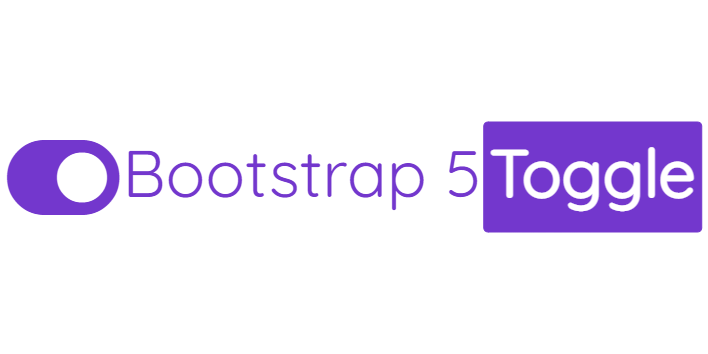
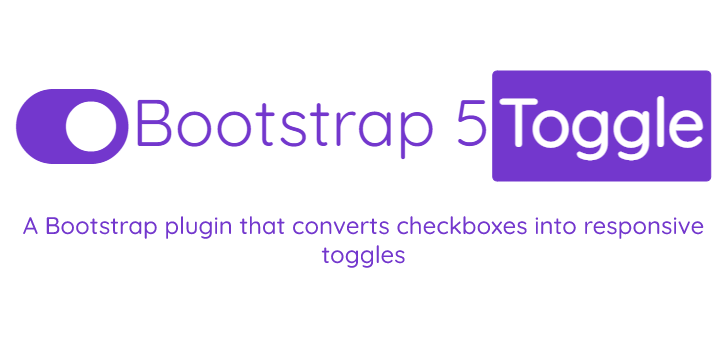
update social media card

Changed region(s): [[0.0, 0.1864, 0.9944, 0.6836], [0.435, 0.6836, 0.5593, 0.7458], [0.5904, 0.3418, 0.6215, 0.3729]]

diff --git a/index.html b/index.html
@@ -20,8 +20,8 @@
         content="Bootstrap 5 Toggle is a bootstrap plugin that converts checkboxes into responsive toggles." />
     <meta property="og:url" content="https://palcarazm.github.io/bootstrap5-toggle/" />
     <meta property="og:image" content="https://palcarazm.github.io/bootstrap5-toggle/img/card.png" />
-    <meta property="og:image:width" content="708" />
-    <meta property="og:image:height" content="354" />
+    <meta property="og:image:width" content="728" />
+    <meta property="og:image:height" content="364" />
     
     <meta name="twitter:title" content="Bootstrap 5 Toggle">
     <meta name="twitter:description"
